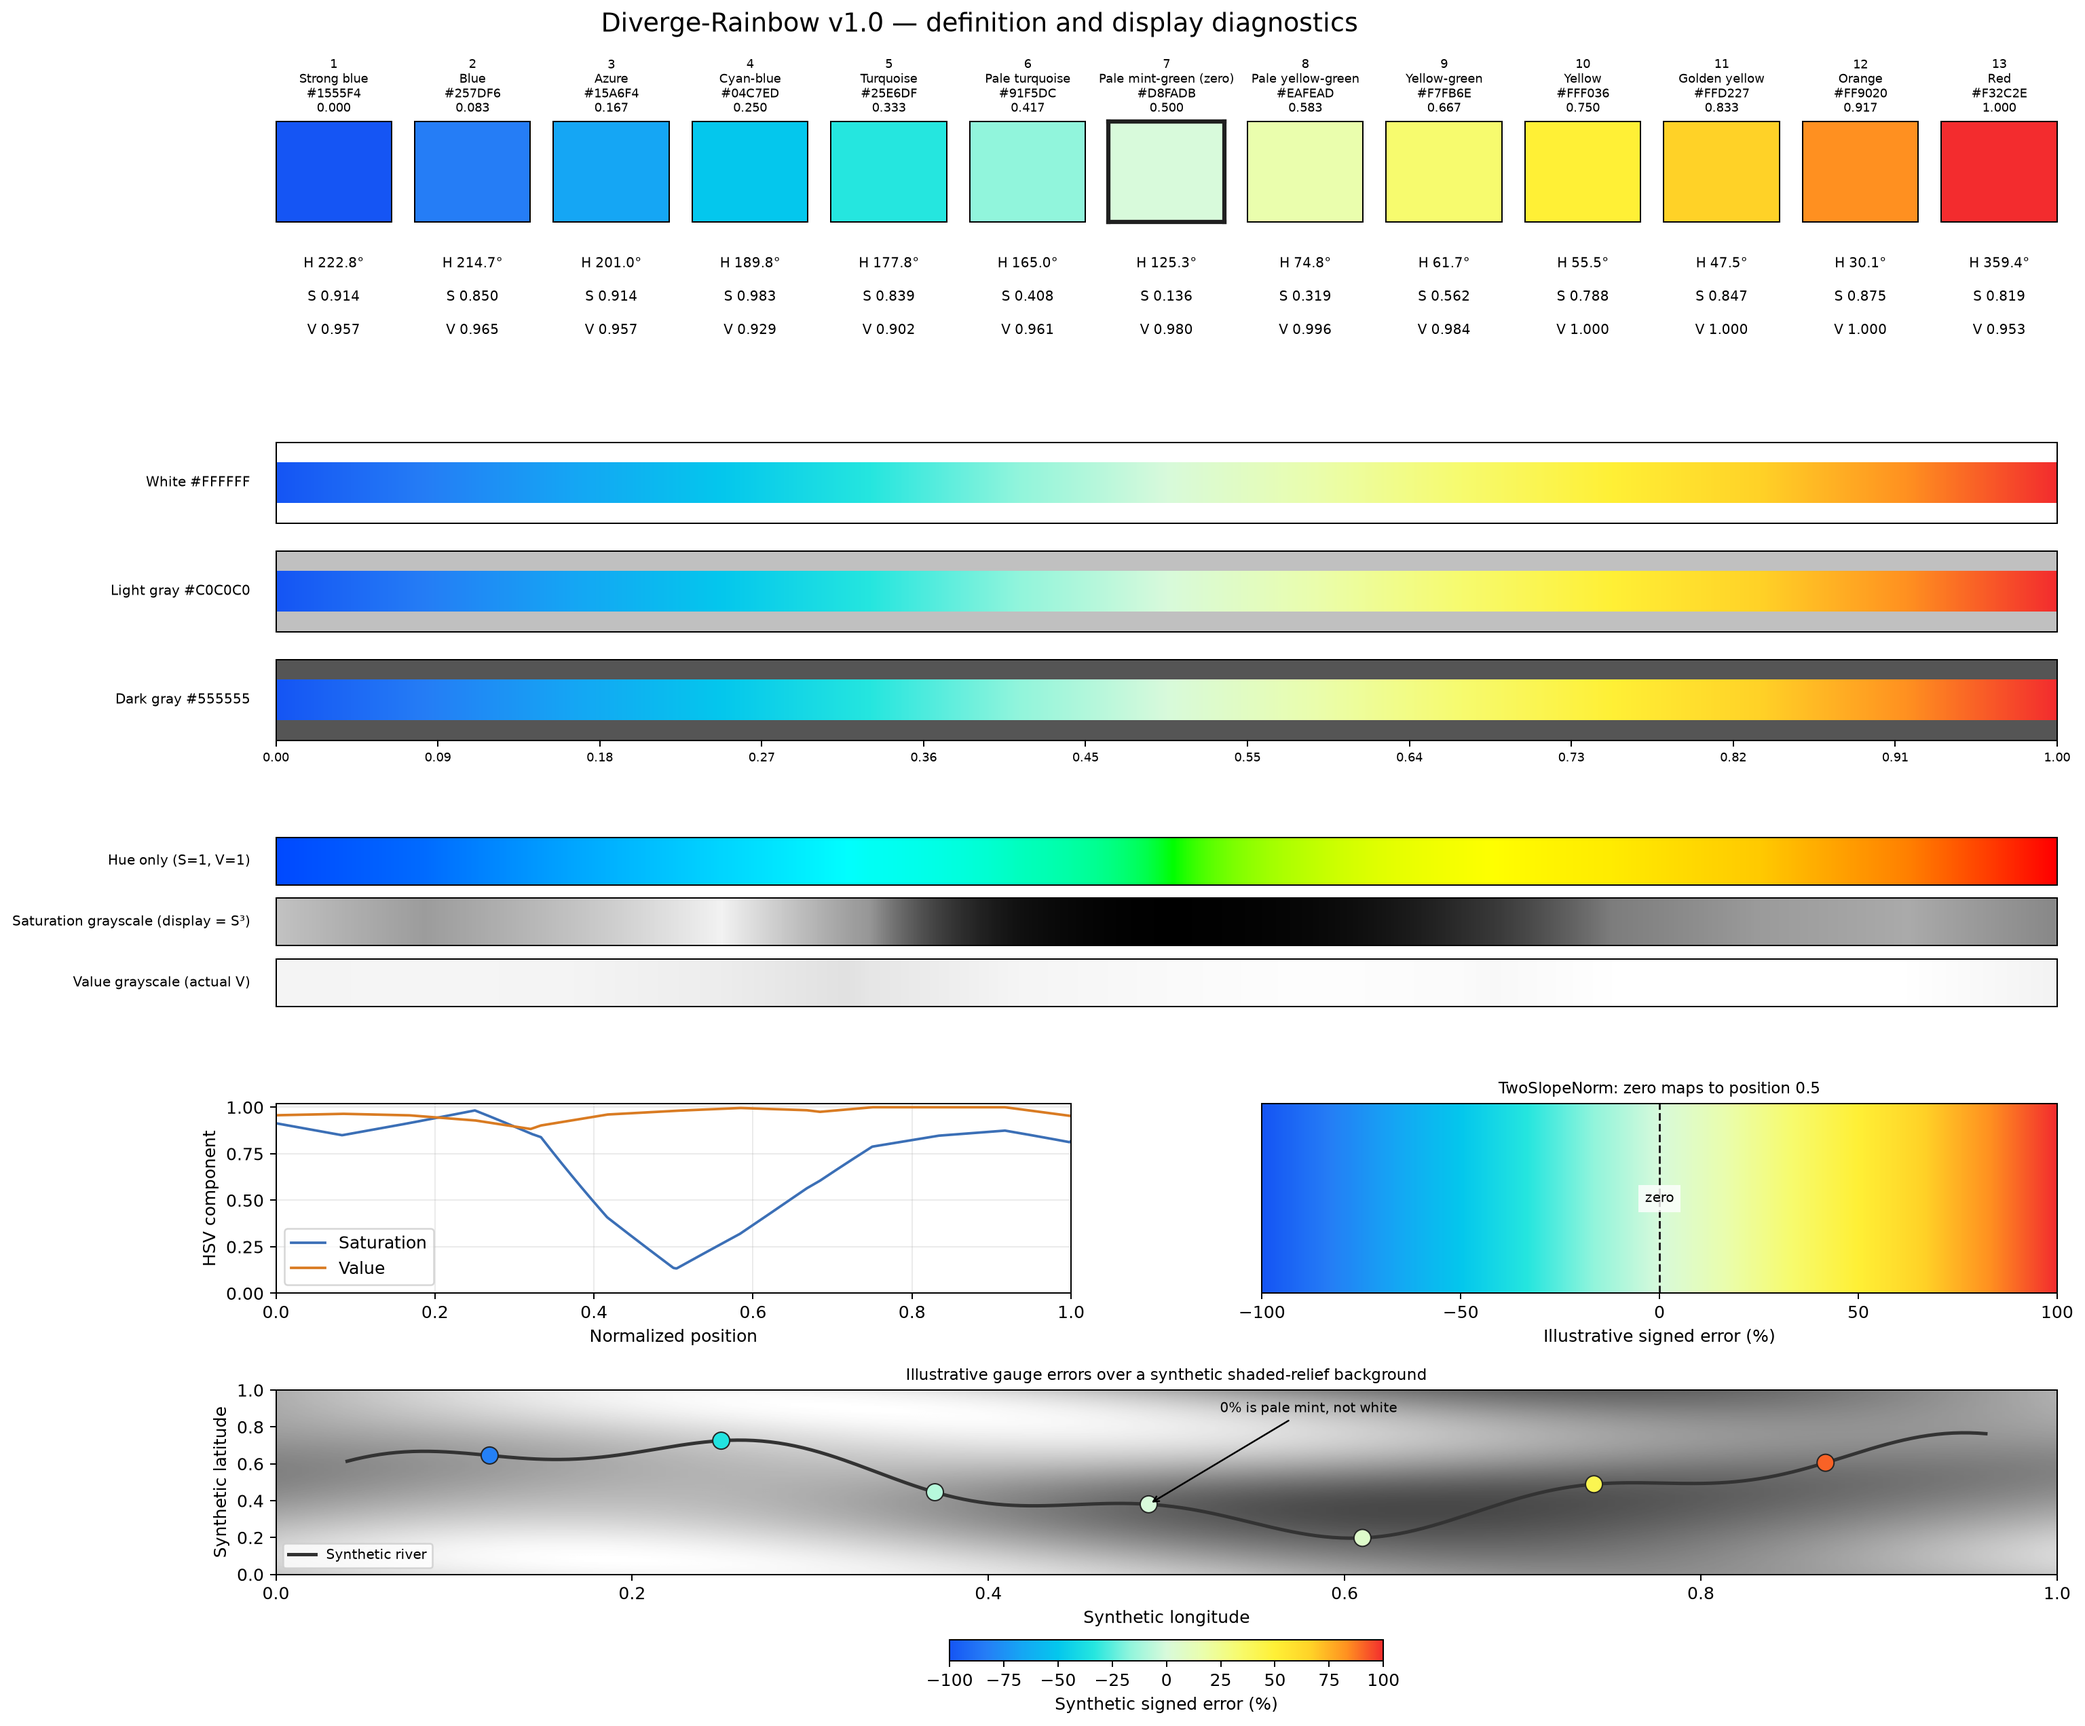
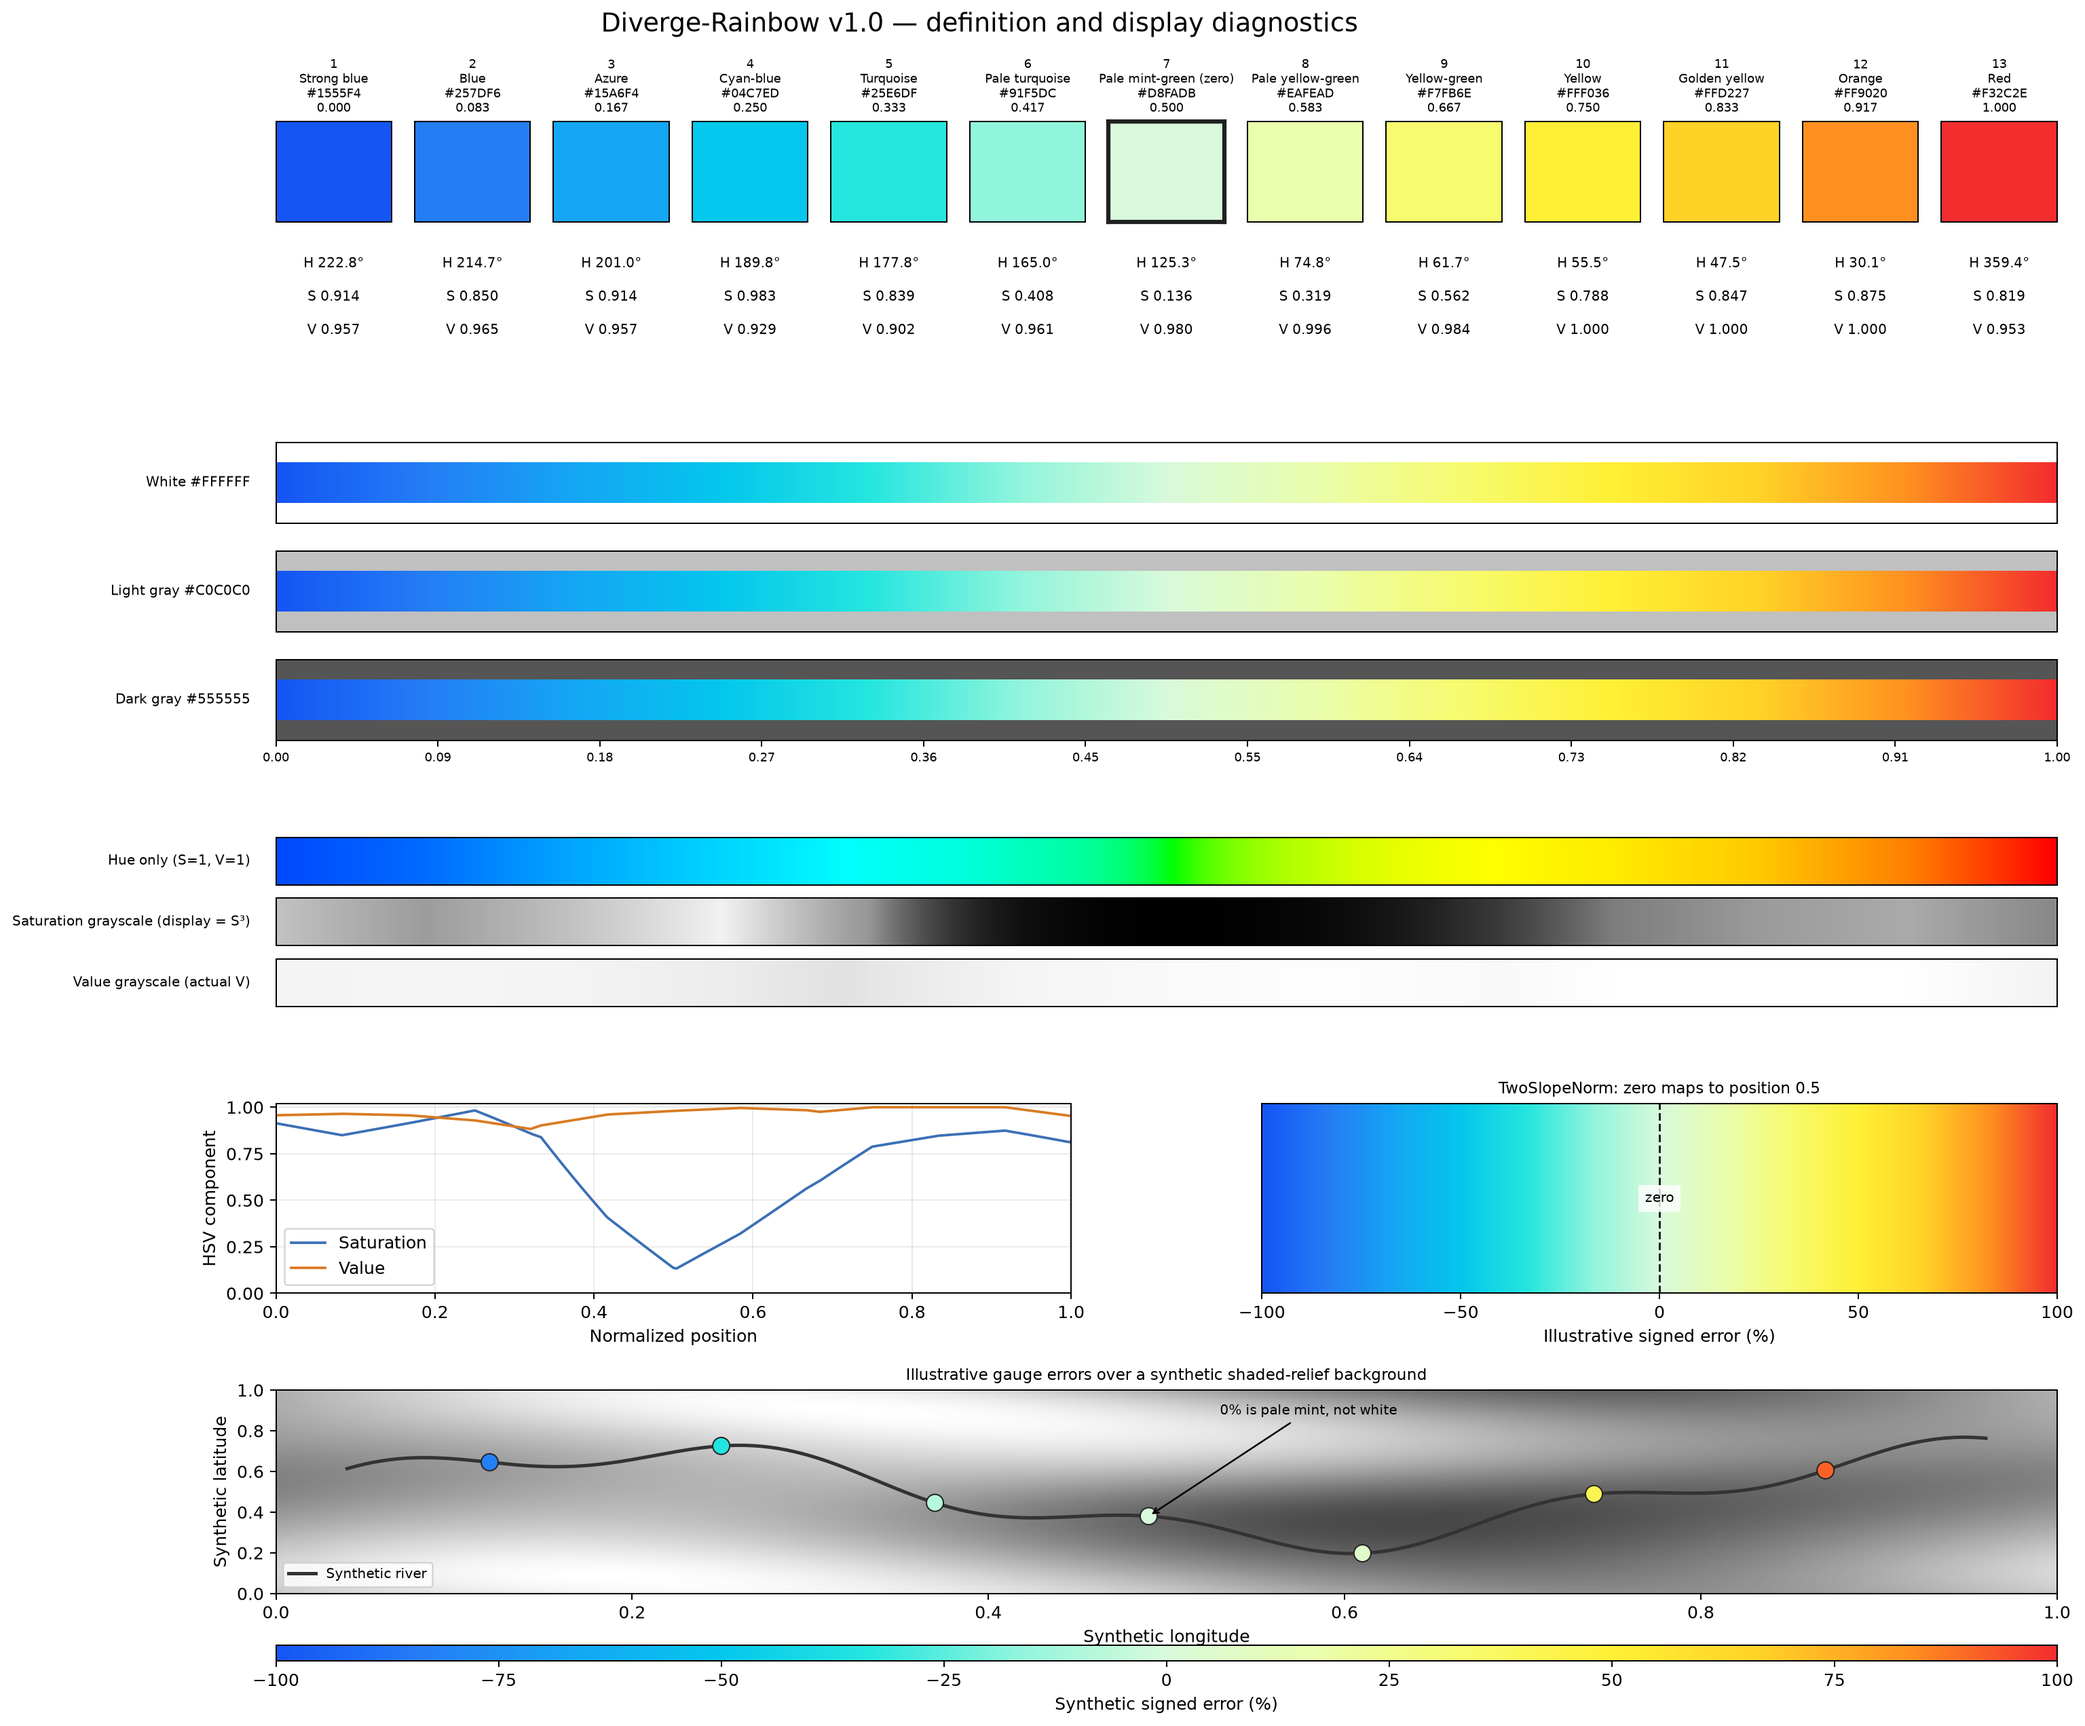
bar height

diff --git a/visualization/cmf_colormap/examples/plot_colormap_gallery.py b/visualization/cmf_colormap/examples/plot_colormap_gallery.py
@@ -12,6 +12,7 @@ import matplotlib
 matplotlib.use("Agg")
 import matplotlib.pyplot as plt
 from matplotlib.colors import Normalize, TwoSlopeNorm
+from mpl_toolkits.axes_grid1 import make_axes_locatable
 import numpy as np
 
 from cmf_colormap import get_cmap, list_colormaps
@@ -230,8 +231,13 @@ def plot_detailed_preview(name, example_kind):
         overlay.set(xlim=(0, 1), ylim=(0, 1), xlabel="Synthetic longitude", ylabel="Synthetic latitude")
         overlay.set_title("Illustrative gauge errors over a synthetic shaded-relief background", fontsize=9)
         overlay.legend(loc="lower left", fontsize=8)
-        figure.colorbar(points, ax=overlay, orientation="horizontal", pad=0.24,
-                        fraction=0.08, label="Synthetic signed error (%)")
+        colorbar_axes = make_axes_locatable(overlay).append_axes(
+            "bottom", size="8%", pad=0.42
+        )
+        figure.colorbar(
+            points, cax=colorbar_axes, orientation="horizontal",
+            label="Synthetic signed error (%)",
+        )
     else:
         raise ValueError(f"Unknown preview example kind: {example_kind}")
     ax.set_yticks([])
